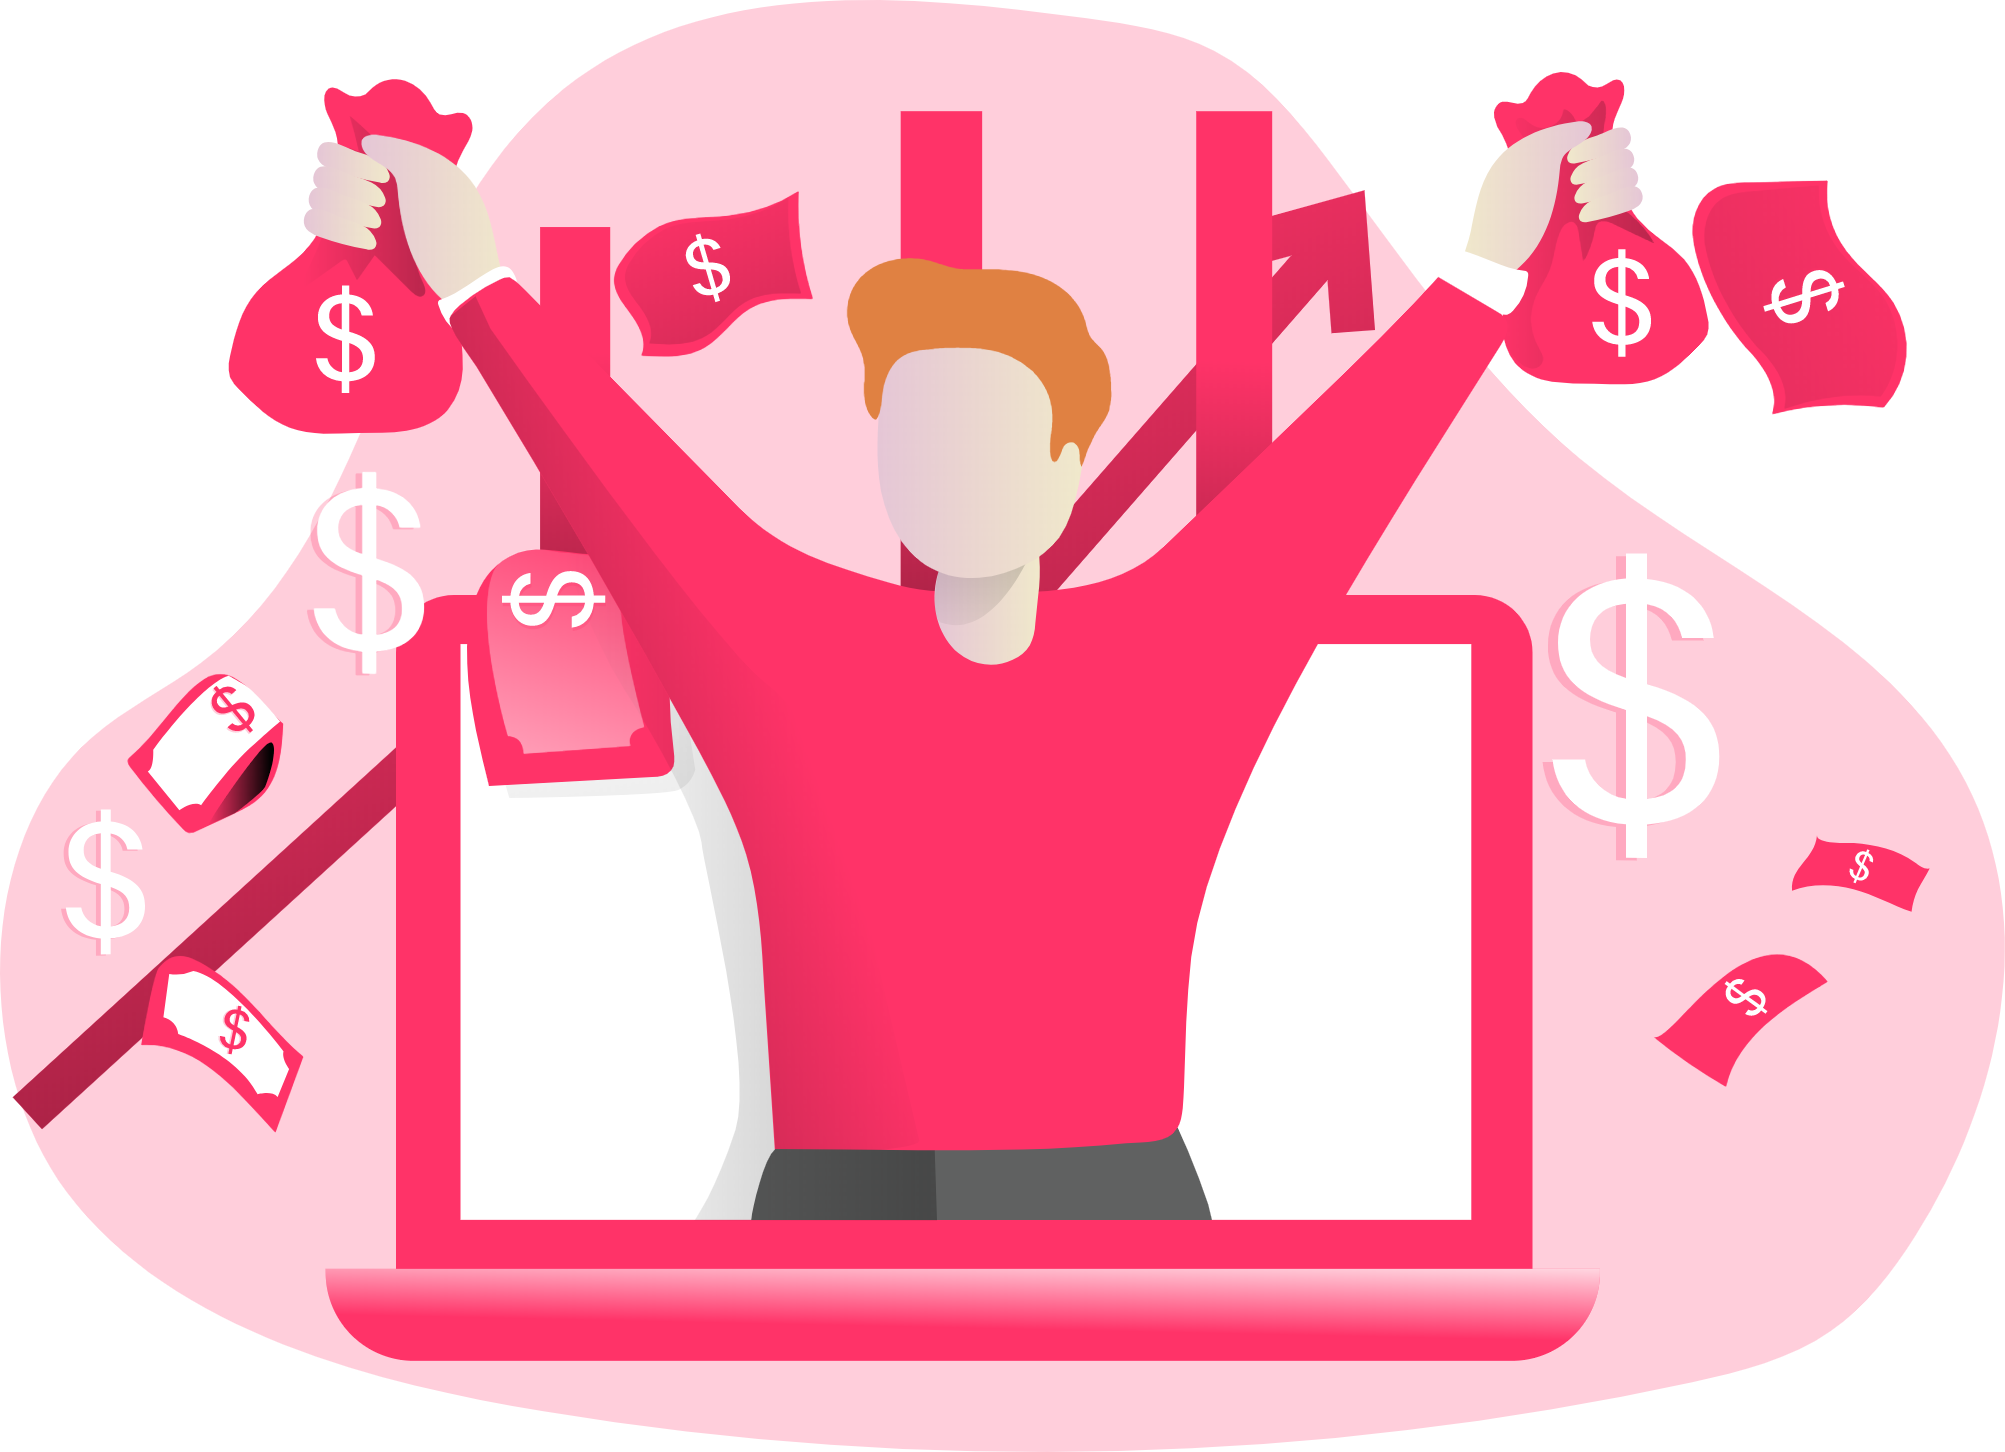
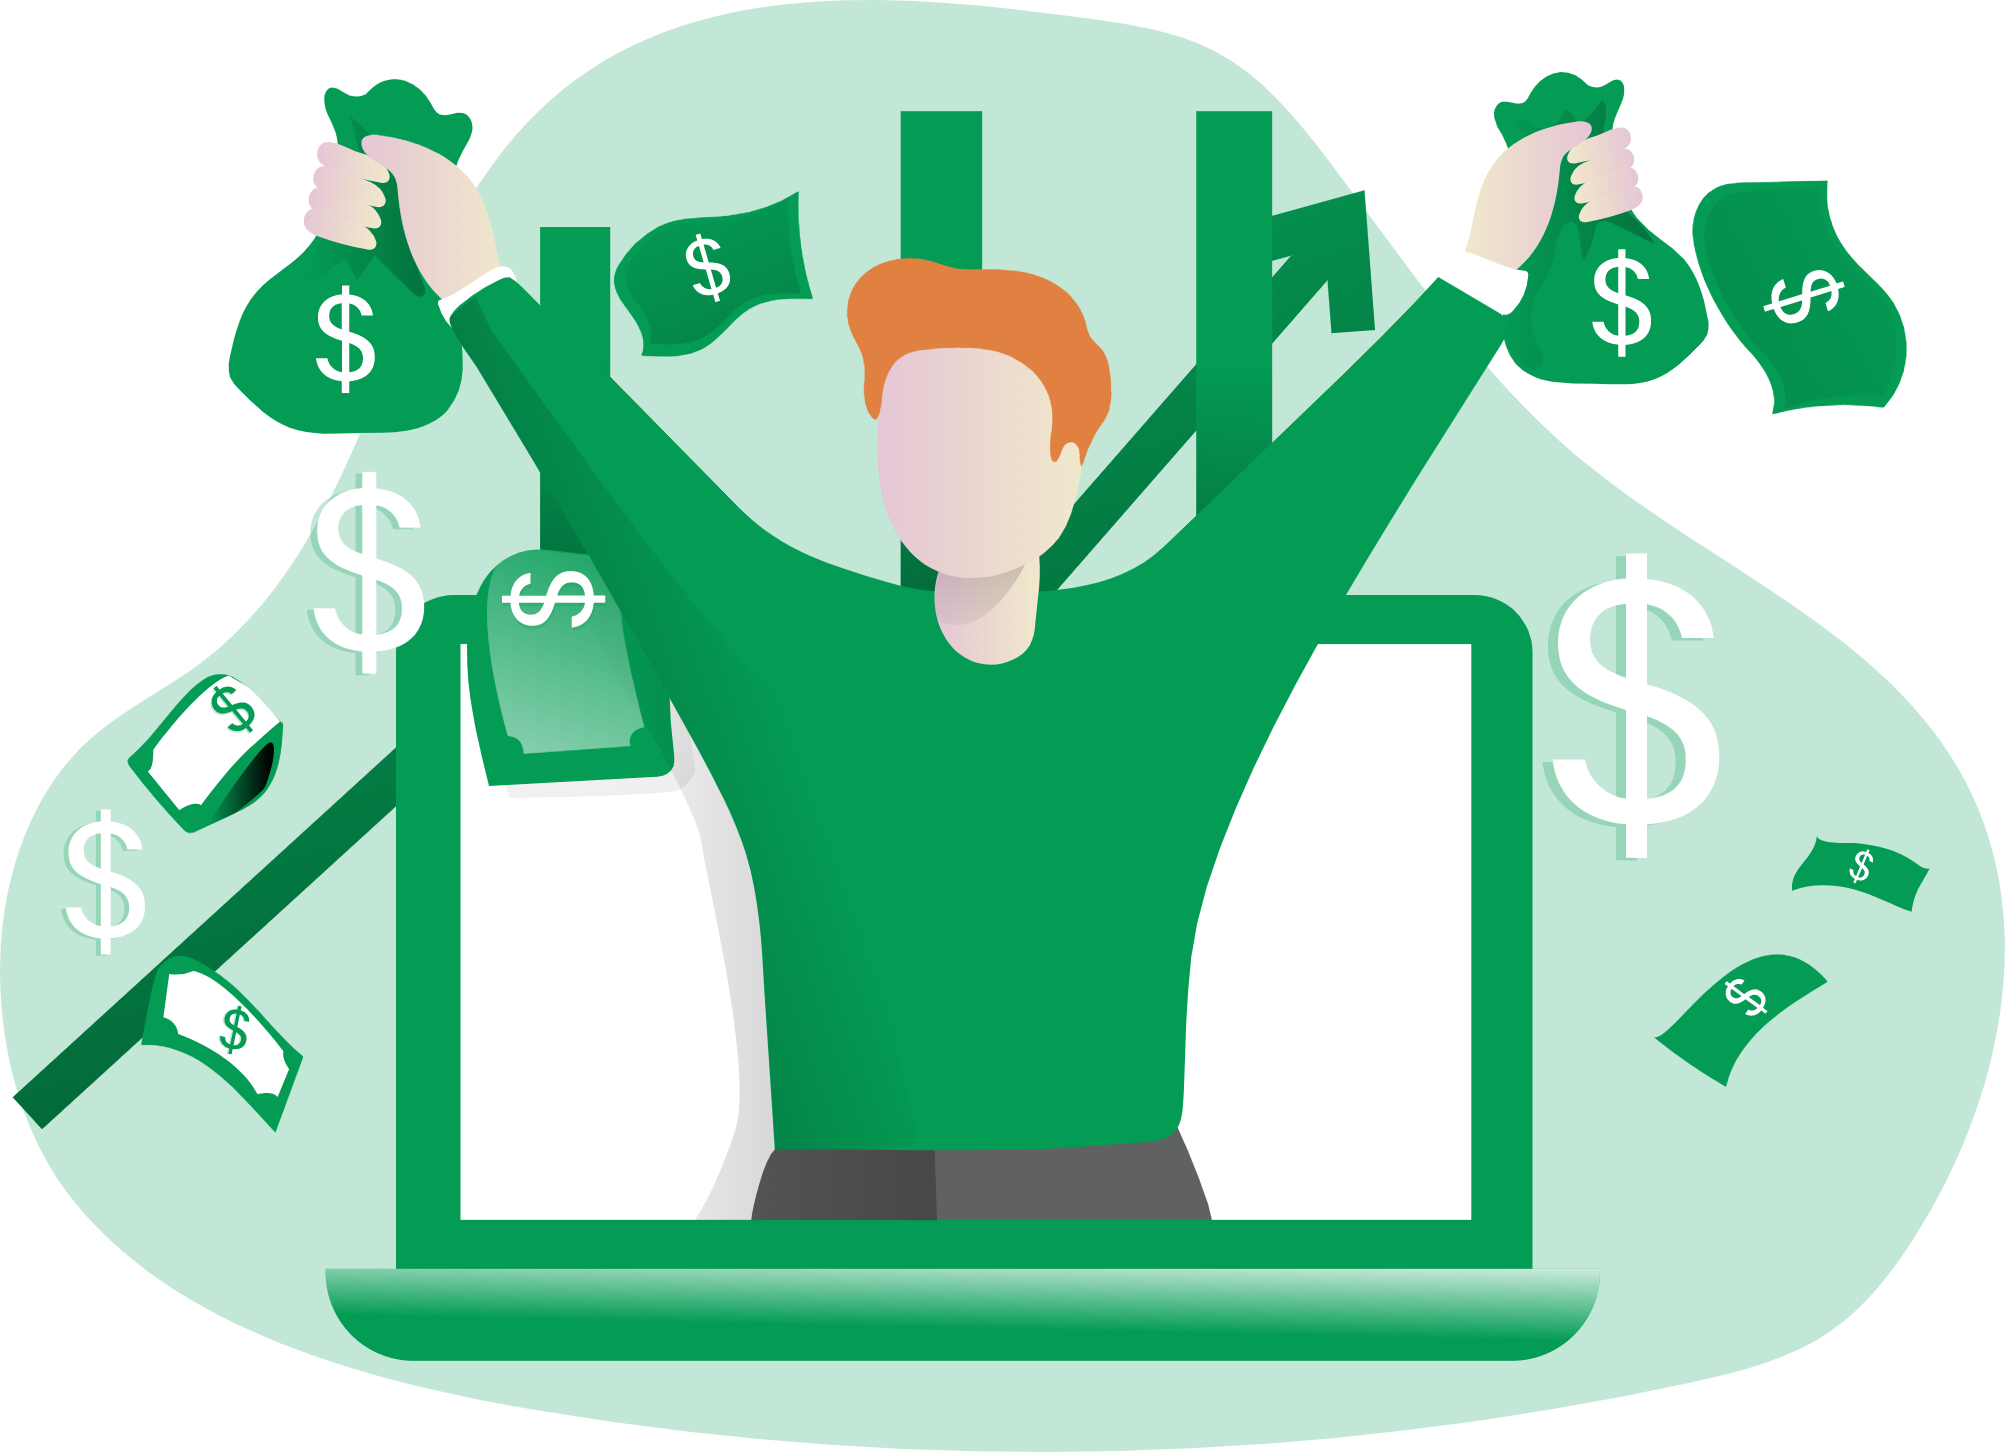
fix image

diff --git a/index.html b/index.html
@@ -180,7 +180,8 @@
 
         <!--Referral Program-->
 
-        <section class="gelmox-red h-vh d-flex flex-column justify-content-center align-items-center w-responsive">
+        <section
+            class="gelmox-green text-light h-vh d-flex flex-column justify-content-center align-items-center w-responsive">
             <h3 class="p-3 mt-2 text-center h3 font-weight-bolder"> You Said No Extra Feeding Money ?</h3>
             <div class="p-5 mt-3 row col-reverse">
                 <div class="col-md-8 p-2 fnt-1">
@@ -196,7 +197,7 @@
                     </ul>
                 </div>
                 <div data-aos="zoom-in-left" class="col-md-4 d-flex align-items-center justify-content-center">
-                    <img src="./assets/money_transfer_.png" alt="Earn" width="350px">
+                    <img src="./assets/revenue_.png" alt="Earn" width="100%">
                 </div>
             </div>
             <div class="p-4 btn-div mb-2"> <a href="#"
